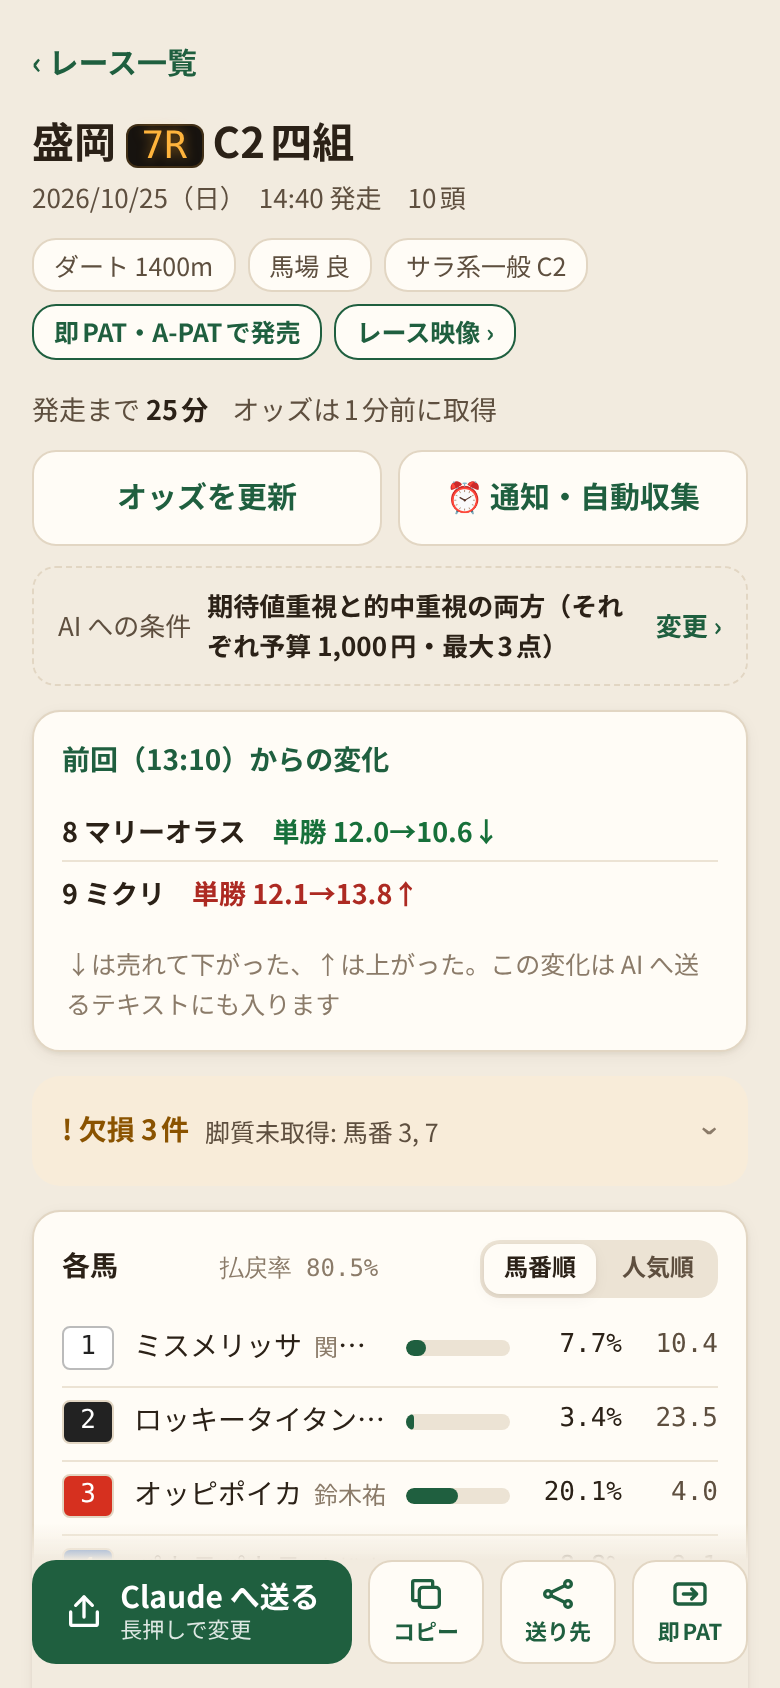
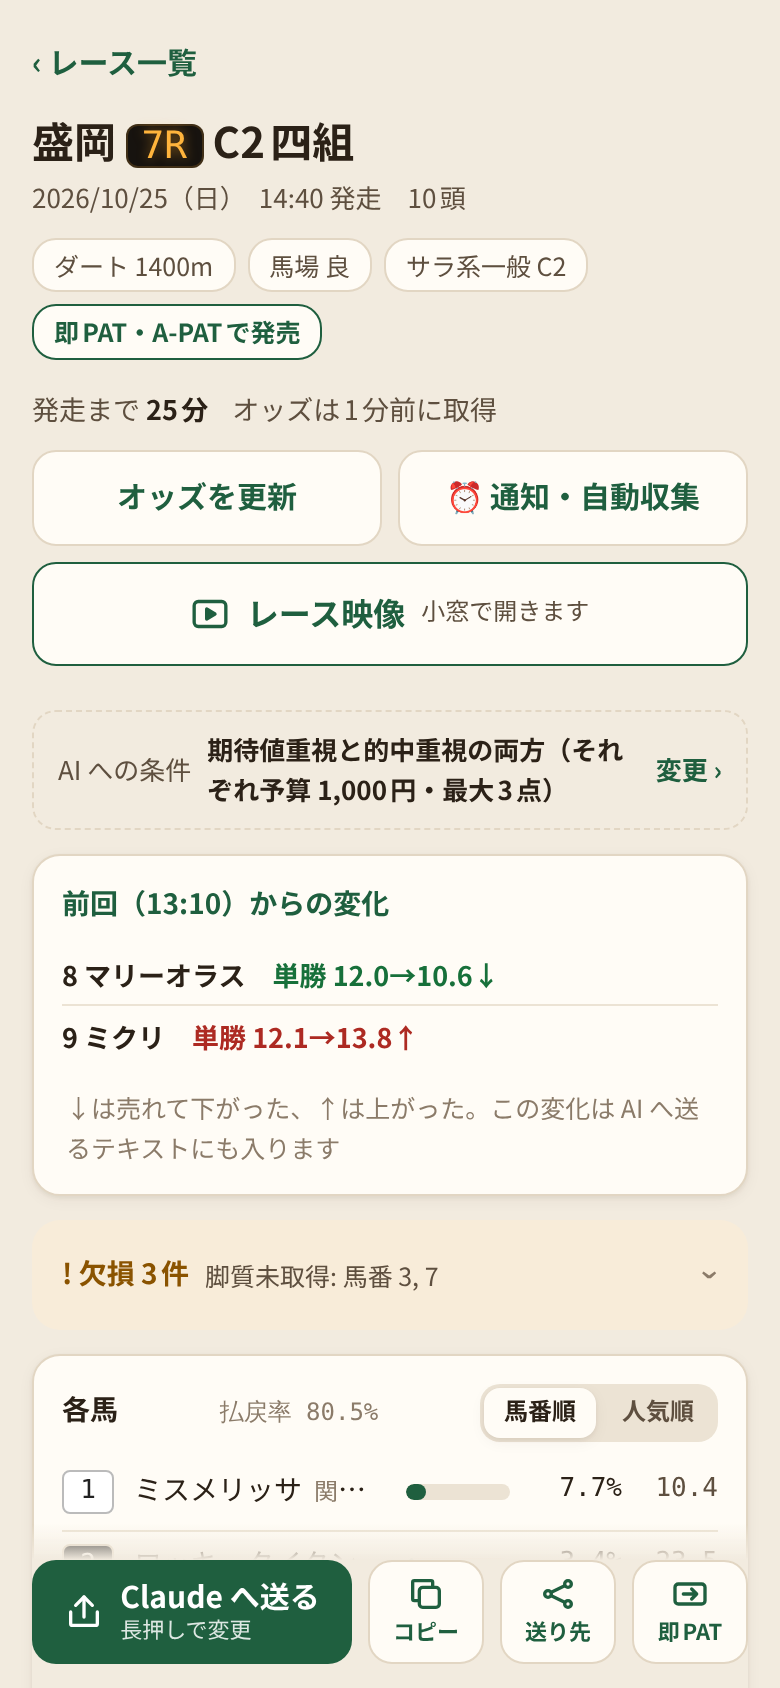
レース映像を最初から小窓で開く・レース映像のボタンを大きくする

diff --git a/android/app/src/main/java/io/github/kotaooka/keiba/LiveActivity.kt b/android/app/src/main/java/io/github/kotaooka/keiba/LiveActivity.kt
@@ -35,7 +35,8 @@ import android.widget.FrameLayout
  * - 縦向き：ページをそのまま画面幅に合わせて表示
  * - 横向き：映像を画面いっぱいに広げ、ステータスバーなどを隠す
  * - 小窓（ピクチャー・イン・ピクチャー）：映像を小さな窓で流したまま、アプリの画面に戻って操作できる。
- *   「小窓にして操作」・戻る操作・ホームへ移る操作で小窓になり、小窓を閉じると映像の画面も終わる
+ *   アプリから開くと最初から小窓になる。小窓をタップすると大きくなり、
+ *   「小窓にして操作」・戻る操作・ホームへ移る操作でまた小窓になる。小窓を閉じると映像の画面も終わる
  * 映像専用版のページ以外へのリンクは、ブラウザで開く。
  * 小窓の間もアプリの画面を前に出せるよう、この画面はアプリの画面とは別のタスクで開く（AndroidManifest の taskAffinity）。
  */
@@ -47,15 +48,18 @@ class LiveActivity : Activity() {
     private lateinit var root: FrameLayout
     private lateinit var bar: LinearLayout
     private var track = ""
+    // 画面が出たら小窓にする（アプリから開いたとき）
+    private var pendingPip = false
 
     companion object {
         const val HOST = "simple.keiba-lv-st.jp"
         private const val EXTRA_TRACK = "track"
+        private const val EXTRA_PIP = "pip"
 
         /** 映像専用版の競馬場名（obihiro・kouchi など）。空なら競馬場を選ぶ一覧を開く */
         fun start(ctx: Context, track: String) {
             val t = if (Regex("^[a-z]{2,20}$").matches(track)) track else ""
-            ctx.startActivity(Intent(ctx, LiveActivity::class.java).putExtra(EXTRA_TRACK, t)
+            ctx.startActivity(Intent(ctx, LiveActivity::class.java).putExtra(EXTRA_TRACK, t).putExtra(EXTRA_PIP, true)
                 .addFlags(Intent.FLAG_ACTIVITY_NEW_TASK))
         }
 
@@ -125,6 +129,7 @@ class LiveActivity : Activity() {
     }
 
     private fun load(i: Intent?) {
+        pendingPip = i?.getBooleanExtra(EXTRA_PIP, false) == true && canPip()
         track = i?.getStringExtra(EXTRA_TRACK).orEmpty()
         web.loadUrl("https://$HOST/" + if (track.isNotEmpty()) "?track=$track" else "")
     }
@@ -134,6 +139,7 @@ class LiveActivity : Activity() {
         super.onNewIntent(intent)
         val t = intent.getStringExtra(EXTRA_TRACK).orEmpty()
         if (t != track || t.isEmpty()) load(intent)
+        else pendingPip = intent.getBooleanExtra(EXTRA_PIP, false) && canPip()
     }
 
     private fun dp(v: Int) = TypedValue.applyDimension(TypedValue.COMPLEX_UNIT_DIP, v.toFloat(), resources.displayMetrics).toInt()
@@ -252,7 +258,15 @@ class LiveActivity : Activity() {
 
     // 裏に回ったら音も止める（戻ると続きから）。小窓の間は流し続ける
     override fun onPause() { if (!isInPictureInPictureMode) web.onPause(); super.onPause() }
-    override fun onResume() { super.onResume(); web.onResume() }
+    override fun onResume() {
+        super.onResume()
+        web.onResume()
+        // 開いた直後は小窓にして、アプリの画面へ戻す（画面が出てからでないと小窓にできない）
+        if (pendingPip && !isInPictureInPictureMode) {
+            pendingPip = false
+            root.post { if (!isFinishing && !isInPictureInPictureMode) toPip(showApp = true) }
+        }
+    }
 
     override fun onDestroy() {
         web.stopLoading()

diff --git a/android/README.md b/android/README.md
@@ -29,12 +29,14 @@
   - 競馬場のタブに「PAT」（一部だけなら「PAT 1〜6R」）
   - 一覧の上に「即PAT・A-PATで発売」か「即PATのみで発売」と、範囲・発売時刻
   - 各レースに「即PAT」か「即PAT対象外」。その日その競馬場で売らないときは、一覧の上に「即PAT・A-PAT での発売はありません」と出る
-  - 一覧の上の「即PATを開く ›」で、即PAT・A-PAT の地方競馬の投票画面（地方競馬ネット投票のスマホ版、`https://n.ipat.jra.go.jp/sp/index.cgi`）をブラウザで開く。発売カレンダーを読めていない日も出る
-  - 「レース映像 ›」で、その競馬場のレース映像を**アプリ内で**見られる（地方競馬ライブの映像専用版 `https://simple.keiba-lv-st.jp/?track=…` を開く）。結果画面の項目の並び（コース・馬場の横）にもある
-    - 横向きにすると映像が画面いっぱいになる。画質（256kbps〜2000kbps・AUTO）は縦向きで映像の上のボタンから選ぶ
-    - **小窓（ピクチャー・イン・ピクチャー）にして、映像を流したままアプリを操作できる**。縦向きの画面下の「小窓にして操作」か戻る操作で小窓になり、アプリの画面に戻る。ホームへ移ったときも小窓になる
-    - 小窓をタップすると大きく戻せる。小窓の×か、下へ払うと映像が終わる。大きいままやめるときは「閉じる」
-    - 小窓のままほかのレースの「レース映像 ›」を押すと、その競馬場の映像に切り替わって大きく開く
+  - 一覧の上の「即PATを開く」で、即PAT・A-PAT の地方競馬の投票画面（地方競馬ネット投票のスマホ版、`https://n.ipat.jra.go.jp/sp/index.cgi`）をブラウザで開く。発売カレンダーを読めていない日も出る
+  - 「レース映像」のボタン（一覧の上と、結果画面の「オッズを更新」の下）で、その競馬場のレース映像を**アプリ内で**見られる（地方競馬ライブの映像専用版 `https://simple.keiba-lv-st.jp/?track=…` を開く）
+    - **最初から小窓（ピクチャー・イン・ピクチャー）で開く**ので、映像を流したままアプリを操作できる
+    - 小窓をタップすると大きくなる。大きい画面では、横向きにすると映像が画面いっぱいになる。画質（256kbps〜2000kbps・AUTO）は縦向きで映像の上のボタンから選ぶ
+    - 大きい画面の「小窓にして操作」か戻る操作で、また小窓になる。ホームへ移ったときも小窓になる
+    - 小窓の×か、下へ払うと映像が終わる。大きいままやめるときは「閉じる」
+    - 小窓のままほかのレースの「レース映像」を押すと、その競馬場の映像に切り替わる
+    - 端末の設定でピクチャー・イン・ピクチャーを切っていると、大きい画面で開く
     - 映像専用版が配信していない競馬場・時間帯は、競馬場を選ぶ一覧か「配信終了」の画像が出る
 - レースをタップすると収集する。収集済みのレースには「✓ 収集済み」が付き、タップすると取り直さずに結果を開く
 - レースを長押しすると、通知・自動収集を設定できる
